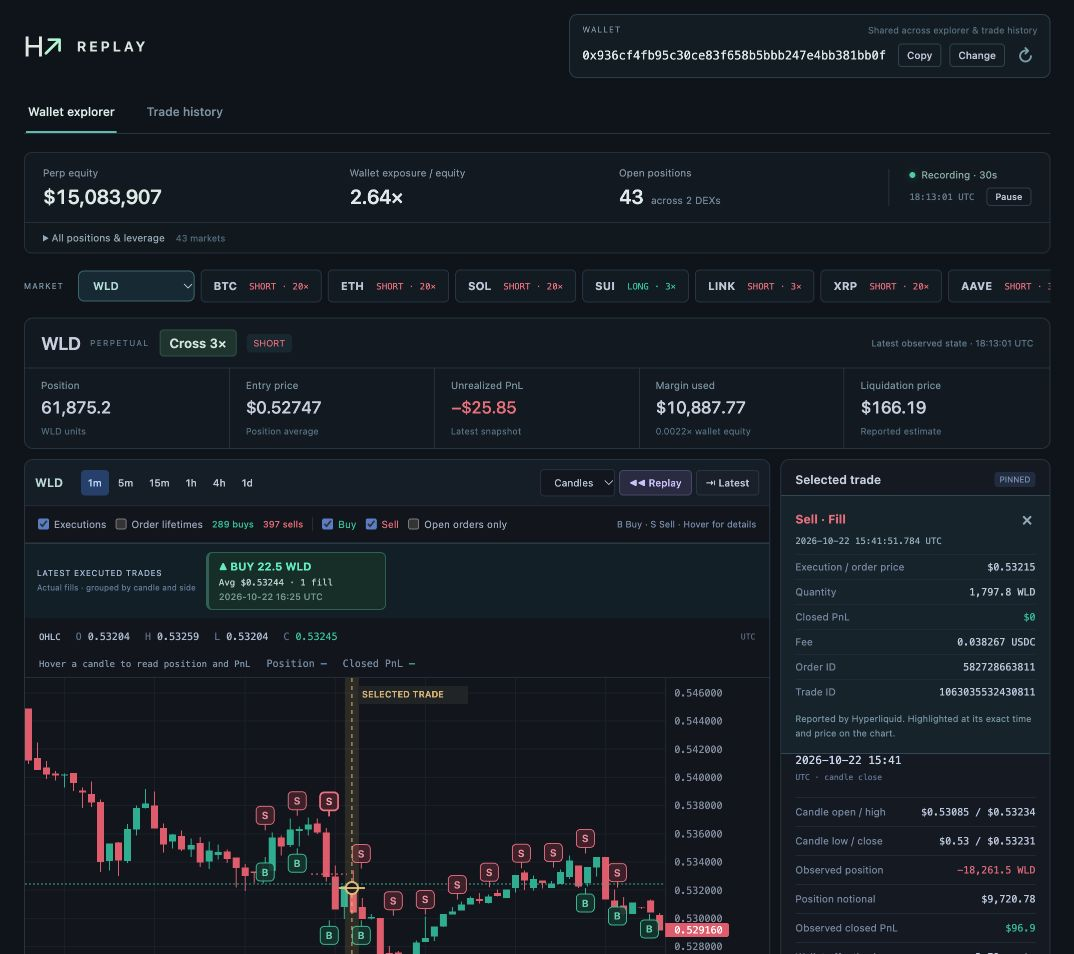
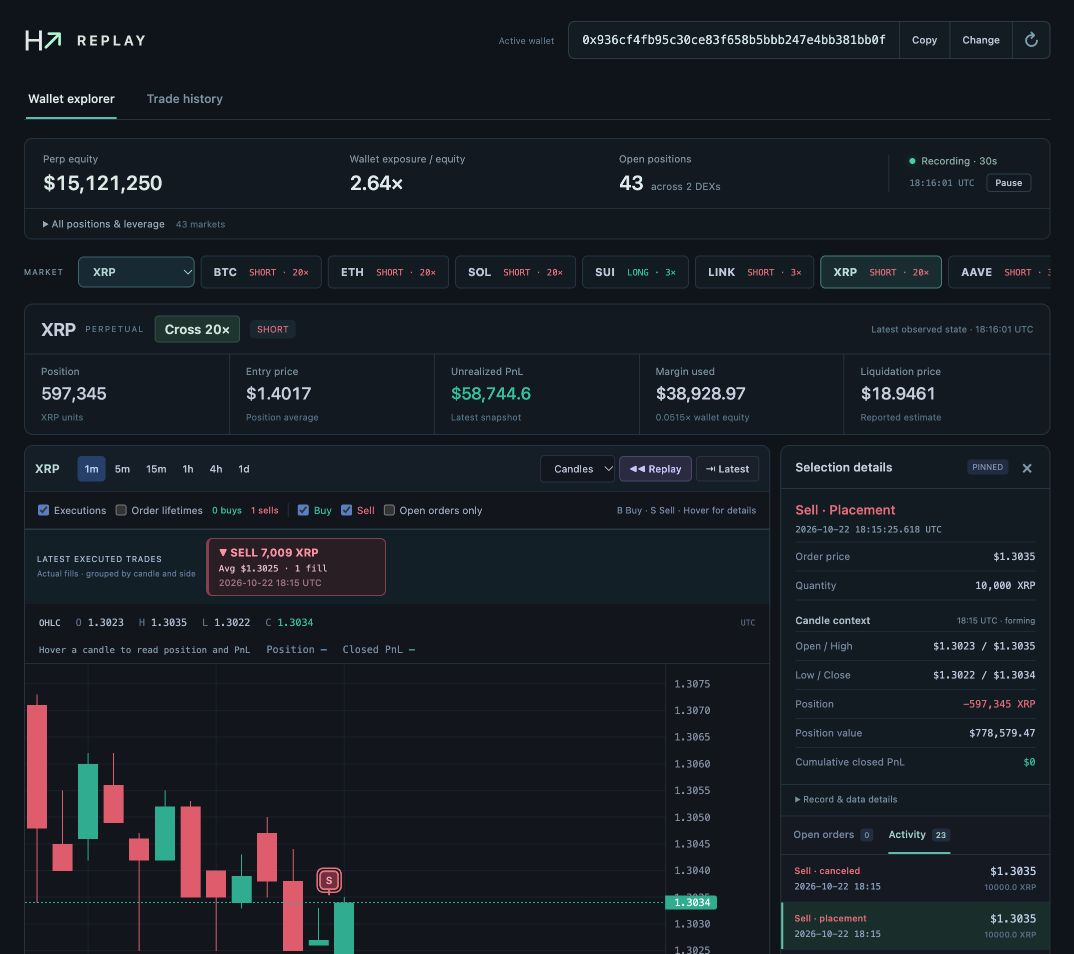
Unify selection inspector and simplify chart and wallet highlights

diff --git a/src/main.tsx b/src/main.tsx
@@ -133,7 +133,7 @@ function App(){
   function latest(){setReplay(false);setPlaying(false);setCursor(Math.max(0,candles.length-1));setSelectedEvent(undefined);setResetKey(k=>k+1);}
   function seek(event:ReplayEvent){const at=candleIndexAt(candles,event.time/1000);if(at>=0)setCursor(at);setPlaying(false);setSelectedEvent(event);setFocusKey(k=>k+1);document.getElementById('selection-heading')?.scrollIntoView({block:'nearest'});}
   return <main className="terminal">
-    <header className="topbar shared-header"><a href="/" className="brand"><span className="original-mark">H<span>↗</span></span><b className="original-wordmark">REPLAY</b></a><section className="shared-wallet" aria-label="Active wallet"><div className="shared-wallet-caption"><span>WALLET</span><span>Shared across explorer & trade history</span></div>{walletEditing?<form className="wallet-edit-form" onSubmit={e=>{e.preventDefault();void loadWallet(false);}}><input autoFocus aria-label="Wallet address" value={wallet} onChange={e=>setWallet(e.target.value)} spellCheck={false} onKeyDown={e=>{if(e.key==='Escape'){setWalletEditing(false);setWallet(snapshot?.wallet??EXAMPLE_WALLET);}}}/><button disabled={busy||!/^0x[0-9a-fA-F]{40}$/.test(wallet)}>{busy?'Loading…':'Load wallet'}</button><button type="button" onClick={()=>{setWalletEditing(false);setWallet(snapshot?.wallet??EXAMPLE_WALLET);}}>Cancel</button></form>:<div className="shared-wallet-controls"><button className="wallet-address-button" aria-label="Change wallet address" title="Change wallet" onClick={()=>{setWallet(snapshot?.wallet??wallet);setWalletEditing(true);}}>{snapshot?.wallet??(busy?'Loading wallet…':wallet)}</button><button className="copy-address" aria-label="Copy wallet address" disabled={!snapshot} onClick={()=>void copyAddress()}>{copyStatus==='Copied'?'Copied!':'Copy'}</button><button className="change-wallet" onClick={()=>{setWallet(snapshot?.wallet??wallet);setWalletEditing(true);}}>Change</button><button type="button" className="button-icon" title="Fetch latest wallet history" aria-label="Sync wallet" disabled={busy||!snapshot} onClick={()=>void loadWallet(true,snapshot!.wallet)}>{busy?'…':'↻'}</button></div>}{copyStatus&&copyStatus!=='Copied'&&<span className="copy-feedback" role="status">{copyStatus}</span>}</section></header>
+    <header className="topbar shared-header"><a href="/" className="brand"><span className="original-mark">H<span>↗</span></span><b className="original-wordmark">REPLAY</b></a><section className="shared-wallet" aria-label="Active wallet"><div className="shared-wallet-caption"><span>Active wallet</span></div>{walletEditing?<form className="wallet-edit-form" onSubmit={e=>{e.preventDefault();void loadWallet(false);}}><input autoFocus aria-label="Wallet address" value={wallet} onChange={e=>setWallet(e.target.value)} spellCheck={false} onKeyDown={e=>{if(e.key==='Escape'){setWalletEditing(false);setWallet(snapshot?.wallet??EXAMPLE_WALLET);}}}/><button disabled={busy||!/^0x[0-9a-fA-F]{40}$/.test(wallet)}>{busy?'Loading…':'Load wallet'}</button><button type="button" onClick={()=>{setWalletEditing(false);setWallet(snapshot?.wallet??EXAMPLE_WALLET);}}>Cancel</button></form>:<div className="shared-wallet-controls"><button className="wallet-address-button" aria-label="Change wallet address" title="Change wallet" onClick={()=>{setWallet(snapshot?.wallet??wallet);setWalletEditing(true);}}>{snapshot?.wallet??(busy?'Loading wallet…':wallet)}</button><button className="copy-address" aria-label="Copy wallet address" disabled={!snapshot} onClick={()=>void copyAddress()}>{copyStatus==='Copied'?'Copied!':'Copy'}</button><button className="change-wallet" onClick={()=>{setWallet(snapshot?.wallet??wallet);setWalletEditing(true);}}>Change</button><button type="button" className="button-icon" title="Fetch latest wallet history" aria-label="Sync wallet" disabled={busy||!snapshot} onClick={()=>void loadWallet(true,snapshot!.wallet)}>{busy?'…':'↻'}</button></div>}{copyStatus&&copyStatus!=='Copied'&&<span className="copy-feedback" role="status">{copyStatus}</span>}</section></header>
     <div className="top-nav" role="tablist" aria-label="Workspace views" onKeyDown={e=>{if(['ArrowLeft','ArrowRight','Home','End'].includes(e.key)){e.preventDefault();const next=e.key==='Home'?'explorer':e.key==='End'?'history':view==='explorer'?'history':'explorer';switchView(next);document.getElementById(next+'-tab')?.focus();}}}><button id="explorer-tab" role="tab" aria-selected={view==='explorer'} aria-controls="explorer-panel" tabIndex={view==='explorer'?0:-1} className={view==='explorer'?'nav-active':''} onClick={()=>switchView('explorer')}>Wallet explorer</button><button id="history-tab" role="tab" aria-selected={view==='history'} aria-controls="history-panel" tabIndex={view==='history'?0:-1} className={view==='history'?'nav-active':''} onClick={()=>switchView('history')}>Trade history</button></div>
     {error&&<div className="error-banner" role="alert">{error}</div>}
     {leverageError&&<div className="error-banner" role="alert">{leverageError}</div>}
@@ -150,7 +150,7 @@ function App(){
         <div className={`replay-strip ${replay?'is-replay':''}`}><span className="mode-pill">{replay?'REPLAY':'HISTORICAL VIEW'}</span>{replay?<><button aria-label="Previous trade or candle" onClick={()=>{setPlaying(false);setCursor(i=>replayMode==='trades'?nextTradeBar(bars,i,-1)??i:Math.max(0,i-1));}}>◁</button><button className="play-button" onClick={()=>{if(cursor===candles.length-1||replayMode==='trades'&&nextTradeBar(bars,cursor,1)===undefined)setCursor(replayStart);setPlaying(p=>!p);}}>{playing?'Ⅱ Pause':'▶ Play'}</button><button aria-label="Next trade or candle" onClick={()=>{setPlaying(false);setCursor(i=>replayMode==='trades'?nextTradeBar(bars,i,1)??i:Math.min(candles.length-1,i+1));}}>▷</button><select aria-label="Replay mode" value={replayMode} onChange={e=>{setPlaying(false);setReplayMode(e.target.value as 'trades'|'candles');}}><option value="trades">Trade replay</option><option value="candles">Candle replay</option></select><select aria-label="Playback speed" value={speed} onChange={e=>setSpeed(Number(e.target.value))}>{[1,4,12,30].map(s=><option key={s} value={s}>{s} steps/s</option>)}</select><input aria-label="Replay timeline" type="range" min={0} max={Math.max(0,candles.length-1)} value={Math.min(cursor,Math.max(0,candles.length-1))} onChange={e=>{setPlaying(false);setCursor(Number(e.target.value));}}/><button onClick={latest}>Exit replay</button></>:<span className="replay-hint">Scroll to zoom · drag to pan · click a candle to inspect · Replay to follow executed trades</span>}<time>{candles[cursor]?`${date(candles[cursor].time)} UTC`:'—'}</time></div>
         <div className="coverage-strip"><span className="status-dot"/><span>{candles.length?`${candles.length.toLocaleString()} candles · ${date(candles[0].time).slice(0,10)} — ${date(candles.at(-1)!.time).slice(0,10)}`:'Waiting for market data'}</span><span>{marketEvents.filter(e=>e.kind==='fill').length} fills in chart window</span>{events.length>marketEvents.length&&<span className="amber">{events.length-marketEvents.length} operations outside candle coverage</span>}<a href="https://www.tradingview.com/" target="_blank" rel="noreferrer">Charts by TradingView</a></div>
       </div>
-      <aside className="inspector"><div className="inspector-heading" id="selection-heading"><h2>{selectedEvent?(selectedEvent.kind==='fill'?'Selected trade':'Selected order'):'Selected candle'}</h2><span className={replay?'replay-dot':'pinned-dot'}>{replay?'REPLAY':'PINNED'}</span></div>{selectedEvent&&<div className="pinned-event" aria-label="Selected activity details"><div><strong className={selectedEvent.side==='B'?'positive':'negative'}>{selectedEvent.side==='B'?'Buy':'Sell'} · {selectedEvent.status??selectedEvent.kind}</strong><button aria-label="Clear selected activity" onClick={()=>setSelectedEvent(undefined)}>×</button></div><time>{new Date(selectedEvent.time).toISOString().replace('T',' ').slice(0,23)} UTC</time><dl><dt>Execution / order price</dt><dd>{price(Number(selectedEvent.price))}</dd><dt>Quantity</dt><dd>{fmt(Number(selectedEvent.size),8)} {coin}</dd>{selectedEvent.fill&&<><dt>Closed PnL</dt><dd className={Number(selectedEvent.fill.closedPnl)>=0?'positive':'negative'}>{Number(selectedEvent.fill.closedPnl)<0?'−$':'$'}{fmt(Math.abs(Number(selectedEvent.fill.closedPnl)),8)}</dd><dt>Fee</dt><dd>{fmt(Number(selectedEvent.fill.fee),8)} {selectedEvent.fill.feeToken??''}</dd></>}<dt>Order ID</dt><dd>{selectedEvent.oid}</dd>{selectedEvent.fill&&<><dt>Trade ID</dt><dd>{selectedEvent.fill.tid}</dd></>}</dl><p>{selectedEvent.evidence==='reported'?'Reported by Hyperliquid. Highlighted at its exact time and price on the chart.':'Estimated placement from the order timestamp and latest fields.'}</p></div>}<div className="selected-date">{candles[cursor]?date(candles[cursor].time):'—'} <small>UTC · {candles[cursor]&&snapshot&&(candles[cursor].time+step)*1000>snapshot.fetchedAt?'forming candle':'candle close'}</small></div><dl><dt>Candle open / high</dt><dd>{candles[cursor]?`${price(candles[cursor].open)} / ${price(candles[cursor].high)}`:'—'}</dd><dt>Candle low / close</dt><dd>{candles[cursor]?`${price(candles[cursor].low)} / ${price(candles[cursor].close)}`:'—'}</dd><dt>Observed position</dt><dd className={state.position!==null&&state.position<0?'negative':'positive'}>{state.position===null||isSpot?'Unknown':`${fmt(state.position,5)} ${coin}`}</dd><dt>Position notional</dt><dd>{state.position!==null&&!isSpot&&candles[cursor]?usd(Math.abs(state.position*candles[cursor].close)):'—'}</dd><dt>Observed closed PnL</dt><dd className={pnl>=0?'positive':'negative'}>{fills.length?usd(pnl):'—'}</dd><dt title="Wallet-wide effective leverage at or before this cursor; recorded samples take priority over estimates.">Wallet effective leverage</dt><dd>{(()=>{const recorded=leverageData?.recorded.findLast(p=>p.time<=cutoff);const estimated=leverageData?.estimated.findLast(p=>p.time<=cutoff);const p=recorded&&cutoff-recorded.time<=90000?recorded:estimated&&cutoff-estimated.time<=300000?estimated:null;return p?.value!==null&&p?.value!==undefined?`${fmt(p.value)}× ${p===recorded?'recorded':'est.'}`:'—';})()}</dd><dt>Observed executions</dt><dd>{fills.length}</dd><dt>Open orders at cursor</dt><dd>{state.orders.length}</dd></dl><p className="inspector-note">{events.some(e=>e.kind==='fill')?'':`No ${coin} fills were returned in the bounded wallet history. `}Historical position is reconstructed from fills. The token’s reported leverage above is the latest recorded setting, not a historical value at this cursor.</p>{!isSpot&&state.discontinuities>0&&<p className="gap-warning">{state.discontinuities} position gaps detected in the available fills.</p>}
+      <aside className="inspector"><section className="selection-summary" aria-label="Selected activity and candle state"><div className="inspector-heading" id="selection-heading"><h2>Selection details</h2><div><span className={replay?'replay-dot':'pinned-dot'}>{replay?'REPLAY':'PINNED'}</span>{selectedEvent&&<button className="clear-selection" aria-label="Clear selected activity" onClick={()=>setSelectedEvent(undefined)}>×</button>}</div></div><div className="selection-context"><strong className={selectedEvent?(selectedEvent.side==='B'?'positive':'negative'):''}>{selectedEvent?`${selectedEvent.side==='B'?'Buy':'Sell'} · ${selectedEvent.status??selectedEvent.kind}`:`${coin} candle`}</strong><time>{selectedEvent?new Date(selectedEvent.time).toISOString().replace('T',' ').slice(0,23):candles[cursor]?date(candles[cursor].time):'—'} UTC</time></div><dl className="unified-selection">{selectedEvent&&<><dt>{selectedEvent.kind==='fill'?'Trade price':'Order price'}</dt><dd>{price(Number(selectedEvent.price))}</dd><dt>Quantity</dt><dd>{fmt(Number(selectedEvent.size),8)} {coin}</dd>{selectedEvent.fill&&<><dt>Trade closed PnL</dt><dd className={Number(selectedEvent.fill.closedPnl)>=0?'positive':'negative'}>{Number(selectedEvent.fill.closedPnl)<0?'−$':'$'}{fmt(Math.abs(Number(selectedEvent.fill.closedPnl)),8)}</dd><dt>Fee</dt><dd>{fmt(Number(selectedEvent.fill.fee),8)} {selectedEvent.fill.feeToken??''}</dd></>}</>}<dt className="selection-subheading">Candle context <small>{candles[cursor]?date(candles[cursor].time).slice(11):'—'} UTC · {candles[cursor]&&snapshot&&(candles[cursor].time+step)*1000>snapshot.fetchedAt?'forming':'close'}</small></dt><dt>Open / High</dt><dd>{candles[cursor]?`${price(candles[cursor].open)} / ${price(candles[cursor].high)}`:'—'}</dd><dt>Low / Close</dt><dd>{candles[cursor]?`${price(candles[cursor].low)} / ${price(candles[cursor].close)}`:'—'}</dd><dt>Position</dt><dd className={state.position!==null&&state.position<0?'negative':'positive'}>{state.position===null||isSpot?'Unknown':`${fmt(state.position,5)} ${coin}`}</dd><dt>Position value</dt><dd>{state.position!==null&&!isSpot&&candles[cursor]?usd(Math.abs(state.position*candles[cursor].close)):'—'}</dd><dt>Cumulative closed PnL</dt><dd className={pnl>=0?'positive':'negative'}>{fills.length?usd(pnl):'—'}</dd></dl><details className="selection-more"><summary>Record & data details</summary><dl>{selectedEvent&&<><dt>Order ID</dt><dd>{selectedEvent.oid}</dd>{selectedEvent.fill&&<><dt>Trade ID</dt><dd>{selectedEvent.fill.tid}</dd></>}</>}<dt>Executions to cursor</dt><dd>{fills.length}</dd><dt>Open orders at cursor</dt><dd>{state.orders.length}</dd></dl><p>{selectedEvent?.evidence==='inferred'?'Placement is estimated from the order timestamp and latest fields. ':''}Position and cumulative PnL are reconstructed at candle close from available fills. PnL excludes fees and funding. Token leverage above is the latest recorded setting.</p></details>{!isSpot&&state.discontinuities>0&&<p className="gap-warning">{state.discontinuities} position gaps detected.</p>}</section>
         <div className="side-tabs"><button className={tab==='orders'?'active':''} onClick={()=>setTab('orders')}>Open orders <small>{state.orders.length}</small></button><button className={tab==='events'?'active':''} onClick={()=>setTab('events')}>Activity <small>{renderedEvents.length}</small></button></div>
         <div className="side-list">{tab==='orders'?<><div className="list-head"><span>Side / size</span><span>Limit price</span></div>{state.orders.length?state.orders.sort((a,b)=>Number(b.event.price)-Number(a.event.price)).map(({event,remaining})=><button className="order-item" key={event.id} onClick={()=>seek(event)}><div><b className={event.side==='B'?'positive':'negative'}>{event.side==='B'?'Buy':'Sell'}</b><span>{fmt(remaining,5)} {coin}</span></div><div><strong>{price(Number(event.price))}</strong><small>Estimated lifetime</small></div></button>):<p className="empty-note">No open orders reconstructed at this time.</p>}</>:<>{renderedEvents.length?renderedEvents.slice().reverse().slice(0,100).map(event=><button className={`order-item event-item ${selectedEvent?.id===event.id?'selected-activity':''}`} key={event.id} aria-pressed={selectedEvent?.id===event.id} onClick={()=>seek(event)}><div><b className={event.side==='B'?'positive':'negative'}>{event.side==='B'?'Buy':'Sell'} · {event.status??event.kind}</b><span>{date(event.time/1000)}</span></div><div><strong>{price(Number(event.price))}</strong><small>{event.size} {coin}</small></div></button>):<p className="empty-note">No activity within the current candle window.</p>}<p className="empty-note">Latest 100 activity records in this window.</p></>}</div>
 

diff --git a/src/style.css b/src/style.css
@@ -18,3 +18,7 @@
 [hidden]{display:none!important}.top-nav>button{height:100%;display:flex;align-items:center;padding:0 2px;border:0;border-radius:0;border-bottom:2px solid transparent;background:none;font-size:11px;color:#879eae}.top-nav>button.nav-active{border-bottom-color:#65c4b6;color:#e2efed}.top-nav>button:hover{background:none;color:#e2efed}.trade-history-panel{background:#111b24;border:1px solid #2b3e4c;border-radius:8px;overflow:hidden}.history-heading{display:flex;justify-content:space-between;align-items:center;gap:20px;padding:22px 24px}.history-heading h2{font-size:20px;font-weight:550;margin:0 0 8px;color:#e0eaf0;letter-spacing:-.4px}.history-heading p{margin:0;color:#8ca3b3;font-size:11px}.history-heading label{display:flex;align-items:center;gap:10px;font-size:11px;color:#9db3c1}.history-heading select{min-width:170px;background:#172a35;border-color:#395564;color:#d7e7e6}.history-coverage{display:flex;align-items:center;gap:12px 20px;flex-wrap:wrap;padding:12px 24px;border-block:1px solid #293c49;background:#101d27;font-size:10px;color:#809aab}.history-coverage strong{font-weight:550;color:#c4dadb}.history-coverage>span:last-child{margin-left:auto;color:#b5a68b}.history-table-scroll{max-height:calc(100dvh - 340px);min-height:200px;overflow:auto;scrollbar-width:thin}.history-table-scroll table{width:100%;border-collapse:collapse;text-align:right;white-space:nowrap;font-size:11px;font-variant-numeric:tabular-nums}.history-table-scroll thead th{position:sticky;top:0;background:#192833;color:#9bb0bd;font-size:10px;font-weight:500;z-index:1}.history-table-scroll th,.history-table-scroll td{padding:12px 22px;border-bottom:1px solid #233542}.history-table-scroll th:first-child,.history-table-scroll td:first-child{text-align:left}.history-table-scroll th:nth-child(2),.history-table-scroll td:nth-child(3){text-align:left}.history-table-scroll tbody th{font-weight:550;color:#d4e2e9}.history-table-scroll time{font:10px ui-monospace,monospace;color:#9db0bf}.history-table-scroll tbody tr:hover{background:#192d37}.history-side{font-size:10px;font-weight:600}.history-table-scroll td small{color:#8ca3b3;font-size:9px}.history-pagination{display:flex;justify-content:space-between;align-items:center;gap:12px;padding:14px 24px;border-top:1px solid #293c49;font-size:10px;color:#89a2b3}.history-pagination>div{display:flex;align-items:center;gap:15px}.history-pagination button{padding:6px 12px;font-size:10px;background:#1a2b37;border-color:#344a59}.history-note{padding:0 24px 14px;color:#7993a5;font-size:10px;line-height:1.7;margin:0;max-width:1150px}.history-empty{padding:50px 24px;text-align:center;color:#8ba3b4;font-size:12px}@media(max-width:650px){.history-heading{padding:18px 14px;align-items:flex-start;flex-wrap:wrap}.history-heading h2{font-size:18px}.history-heading select{min-width:150px}.history-coverage,.history-pagination{padding:12px 14px}.history-coverage>span:last-child{margin-left:0}.history-table-scroll th,.history-table-scroll td{padding:12px 14px}.history-table-scroll{max-height:60dvh}.history-note{padding:0 14px 14px}.history-pagination>div{gap:8px}}
 .chart-hover-values{display:flex;align-items:center;flex-wrap:wrap;gap:8px 16px;min-height:28px;padding:5px 14px;border-bottom:1px solid #253443;font:10px ui-monospace,monospace;color:#8197ae}.chart-hover-values>span:first-child{font-size:9px;color:#8ca3b7}.chart-hover-values b{font-weight:500;color:#d3dfed}.chart-hover-values>span:nth-child(2) b{color:#8bb5ff}.chart-hover-values>span:nth-child(3) b{color:#58d5b6}.pinned-event{background:#172731;border-block:1px solid #355260;padding:12px 14px}.pinned-event>div{display:flex;align-items:center;justify-content:space-between;gap:8px}.pinned-event strong{font-size:12px;text-transform:capitalize}.pinned-event button{padding:0 3px;border:0;background:none;color:#9db1bf;font-size:18px}.pinned-event time{display:block;font:9px ui-monospace,monospace;color:#a0b5c3;margin-top:6px}.inspector .pinned-event dl{padding:0;margin:8px 0}.inspector .pinned-event dt,.inspector .pinned-event dd{font-size:10px;padding:6px 0}.pinned-event p{font-size:9px;line-height:1.6;margin:4px 0 0;color:#819eae}.order-item.selected-activity{background:#233634;box-shadow:inset 3px 0 #e6c37a}.inspector-heading{scroll-margin-top:12px}.pane-label{max-width:80%;font-size:8px}.chart-hover-values+ .chart-host{position:relative}
 .shared-header{height:auto;min-height:90px;justify-content:space-between;gap:24px;padding:14px 0;border-bottom:0}.shared-wallet{max-width:100%;min-width:0;background:#111e28;border:1px solid #304755;border-radius:8px;padding:10px 12px}.shared-wallet-caption{display:flex;justify-content:space-between;gap:30px;margin-bottom:8px;color:#829dac;font-size:8px;letter-spacing:1px}.shared-wallet-caption>span:last-child{letter-spacing:0;color:#647f91;font-size:9px}.shared-wallet-controls,.wallet-edit-form{display:flex;align-items:center;gap:8px}.wallet-address-button{border:0;background:transparent!important;padding:3px 4px 3px 0;color:#e1eeef;font:12px ui-monospace,SFMono-Regular,Consolas,monospace;overflow-wrap:anywhere;white-space:normal;text-align:left;user-select:all}.shared-wallet-controls .copy-address,.shared-wallet-controls .change-wallet{font-size:10px;padding:5px 8px;background:transparent;border-color:#304c59}.shared-wallet-controls .button-icon{font-size:18px;padding:0 5px;border:0;background:transparent;color:#87a8b7}.wallet-edit-form input{width:350px;max-width:100%;min-width:0;font:11px ui-monospace,monospace;border-color:#508078;padding:9px}.wallet-edit-form button{font-size:10px}.wallet-edit-form>button:first-of-type{background:#244b45;border-color:#41766a;color:#d6eee5}.shared-header+.top-nav{height:42px;display:flex;gap:28px;margin-bottom:18px;border-bottom:1px solid #293b48;padding-left:2px}.shared-header+.top-nav>button{font-size:12px;padding:0 2px}#wallet-overview{scroll-margin:0}@media(max-width:850px){.shared-header{gap:15px;flex-wrap:wrap;padding:14px 0}.shared-wallet{width:100%;padding:10px}.shared-header+.top-nav{margin-bottom:14px}.wallet-address-button{font-size:11px}.shared-wallet-controls .copy-address,.shared-wallet-controls .change-wallet{font-size:9px}.wallet-edit-form input{flex:1}}@media(max-width:480px){.shared-wallet-controls{flex-wrap:wrap;gap:7px}.wallet-address-button{flex-basis:100%;font-size:10px;line-height:1.7}.shared-wallet-caption{gap:12px}.shared-wallet-caption>span:last-child{font-size:8px}.wallet-edit-form{flex-wrap:wrap}.wallet-edit-form input{flex-basis:100%}}
+/* One inspector surface, with compact event and candle context. */
+.selection-summary{background:#121d27}.selection-summary .inspector-heading{padding:12px 14px;border-bottom:1px solid #293b49}.inspector-heading>div{display:flex;align-items:center;gap:10px}.clear-selection{font-size:18px;padding:0 3px;line-height:18px;background:none;border:0;color:#8ca4b4}.selection-context{padding:13px 14px 5px}.selection-context strong{display:block;text-transform:capitalize;font-size:13px;font-weight:550}.selection-context time{display:block;font:9px ui-monospace,monospace;color:#8ba4b5;margin-top:7px}.inspector .unified-selection{margin:0;padding:2px 14px 8px}.inspector .unified-selection dt,.inspector .unified-selection dd{font-size:10px;padding:8px 0}.inspector .unified-selection .selection-subheading{grid-column:1 / -1;display:flex;align-items:center;justify-content:space-between;color:#b4c6d1;font-size:10px;font-weight:550;padding:14px 0 5px;border-bottom:0}.selection-subheading small{font-size:8px;color:#7d96a9;font-weight:400}.selection-more{border-top:1px solid #263846;padding:9px 14px 11px}.selection-more summary{color:#829dad;font-size:9px;cursor:pointer}.inspector .selection-more dl{padding:6px 0 0;margin:0}.selection-more p{font-size:9px;color:#7b95a8;line-height:1.7;margin:10px 0 0}.order-item.selected-activity{background:#19332f;box-shadow:inset 2px 0 #68cbb5}
+/* Aligned shared wallet toolbar, rather than a second header card. */
+.shared-header{min-height:80px;padding:17px 0;align-items:center}.shared-wallet{display:flex;align-items:center;gap:14px;border:0;border-radius:0;padding:0;background:transparent}.shared-wallet-caption{margin:0;display:block;font-size:10px;letter-spacing:0;color:#8ba2b2;white-space:nowrap}.shared-wallet-controls{height:38px;gap:0;border:1px solid #314551;border-radius:6px;background:#111e28;overflow:hidden}.wallet-address-button{font-size:12px;padding:10px 13px;line-height:16px;color:#d7e6ec}.shared-wallet-controls .copy-address,.shared-wallet-controls .change-wallet,.shared-wallet-controls .button-icon{height:100%;margin:0;border:0;border-left:1px solid #293f4d;border-radius:0;padding:0 12px;font-size:10px;background:transparent;line-height:36px}.shared-wallet-controls .button-icon{font-size:18px;padding:0 11px}.shared-wallet-controls button:hover{background:#1c333d!important}.wallet-edit-form{height:38px;gap:6px}.wallet-edit-form input{height:38px;padding:8px 12px}.wallet-edit-form button{height:34px}.shared-header+.top-nav{margin-bottom:18px;height:40px}@media(max-width:1000px){.shared-wallet{gap:10px}.wallet-address-button{font-size:10px;padding:10px}.shared-wallet-controls .copy-address,.shared-wallet-controls .change-wallet{padding:0 9px}}@media(max-width:850px){.shared-header{flex-wrap:wrap;gap:16px}.shared-wallet{width:100%;justify-content:space-between}.shared-wallet-controls{height:38px}.shared-wallet-caption{font-size:10px}.shared-wallet-controls .wallet-address-button{flex-basis:auto}}@media(max-width:600px){.shared-wallet{display:block}.shared-wallet-caption{margin-bottom:7px}.shared-wallet-controls{height:auto;min-height:38px;flex-wrap:nowrap}.shared-wallet-controls .wallet-address-button{font-size:9px;flex:1;line-height:1.5;padding:8px}.shared-wallet-controls .copy-address,.shared-wallet-controls .change-wallet{padding:0 8px;flex-shrink:0}.wallet-edit-form{height:auto;flex-wrap:wrap}.wallet-edit-form input{width:100%;flex-basis:100%}}

diff --git a/src/OperationOverlay.ts b/src/OperationOverlay.ts
@@ -51,6 +51,8 @@ export class OperationOverlay implements ISeriesPrimitive {
         if(terminal && b>=0 && b<=mediaSize.width) {ctx.beginPath();ctx.moveTo(b-2,py-2);ctx.lineTo(b+2,py+2);ctx.moveTo(b-2,py+2);ctx.lineTo(b+2,py-2);ctx.stroke();}
       }
       this.markers=[];
+      let selectionShown=false;
+      const selectedIndex=this.selectedEvent?candleIndexAt(this.candles,this.selectedEvent.time/1000):-1;
       if(this.options.fills){
         const groups=executionGroups(this.candles,visible.filter(permitted),this.barSeconds);
         const clusters=clusterExecutions(groups,index=>scale.logicalToCoordinate(index as Logical),mediaSize.width);
@@ -61,27 +63,29 @@ export class OperationOverlay implements ISeriesPrimitive {
           const anchor=series.priceToCoordinate(anchorPrice);
           if(anchor===null||anchor<0||anchor>mediaSize.height)continue;
           const py=Math.max(12,Math.min(mediaSize.height-12,anchor+(buy?17:-17)));
-          const highlighted=this.highlightedId===cluster.id||cluster.events.some(e=>e.id===this.selectedEvent?.id);
+          const selected=!!this.selectedEvent&&cluster.side===this.selectedEvent.side&&(cluster.events.some(e=>e.id===this.selectedEvent?.id)||(this.selectedEvent.kind!=='fill'&&selectedIndex>=cluster.firstIndex&&selectedIndex<=cluster.lastIndex));
+          if(selected)selectionShown=true;
+          const highlighted=this.highlightedId===cluster.id||selected;
           ctx.globalAlpha=highlighted?1:.9;
           ctx.strokeStyle=buy?'#39cea4':'#f2798c';ctx.lineWidth=highlighted?1.8:1;
           ctx.beginPath();ctx.moveTo(cluster.x,anchor+(buy?2:-2));ctx.lineTo(cluster.x,py+(buy?-9:9));ctx.stroke();
-          ctx.fillStyle=buy?'#123c33':'#4b2530';ctx.beginPath();ctx.roundRect(cluster.x-9,py-9,18,18,4);ctx.fill();ctx.stroke();
+          ctx.fillStyle=buy?(selected?'#226a54':'#123c33'):(selected?'#7d3549':'#4b2530');ctx.beginPath();ctx.roundRect(cluster.x-9,py-9,18,18,4);ctx.fill();ctx.stroke();
+          if(selected){ctx.globalAlpha=1;ctx.lineWidth=1.5;ctx.beginPath();ctx.roundRect(cluster.x-12,py-12,24,24,6);ctx.stroke();}
           ctx.font='600 10px -apple-system,BlinkMacSystemFont,sans-serif';ctx.textAlign='center';ctx.textBaseline='middle';
           ctx.fillStyle=buy?'#74e8c5':'#ffa8b6';ctx.fillText(buy?'B':'S',cluster.x,py+.5);
-          if(highlighted){const avg=series.priceToCoordinate(cluster.price);if(avg!==null){ctx.setLineDash([2,3]);ctx.globalAlpha=.6;ctx.beginPath();ctx.moveTo(cluster.x-18,avg);ctx.lineTo(cluster.x+18,avg);ctx.stroke();ctx.setLineDash([]);}}
+
           this.markers.push({id:cluster.id,x:cluster.x,y:py,cluster});
         }
       }
       const selected=this.selectedEvent;
-      if(selected&&selected.time/1000<=this.cutoff){
-        const px=x(selected.time/1000),py=series.priceToCoordinate(Number(selected.price));
-        if(px!==null&&px>=0&&px<=mediaSize.width){
-          ctx.globalAlpha=.12;ctx.fillStyle='#f2cd80';ctx.fillRect(px-7,0,14,mediaSize.height);
-          ctx.globalAlpha=.9;ctx.strokeStyle='#f2cd80';ctx.lineWidth=1;ctx.setLineDash([4,4]);ctx.beginPath();ctx.moveTo(px,0);ctx.lineTo(px,mediaSize.height);ctx.stroke();ctx.setLineDash([]);
-          if(py!==null&&py>=0&&py<=mediaSize.height){ctx.fillStyle='#11151e';ctx.beginPath();ctx.arc(px,py,6,0,Math.PI*2);ctx.fill();ctx.lineWidth=2;ctx.stroke();ctx.beginPath();ctx.moveTo(px-13,py);ctx.lineTo(px+13,py);ctx.stroke();}
-          const label=selected.kind==='fill'?'SELECTED TRADE':'SELECTED ORDER';
-          ctx.font='600 9px -apple-system,BlinkMacSystemFont,sans-serif';ctx.textAlign='left';ctx.textBaseline='top';
-          const labelX=Math.max(6,Math.min(mediaSize.width-115,px+10));ctx.fillStyle='#252a2c';ctx.fillRect(labelX-4,8,110,18);ctx.fillStyle='#f2cd80';ctx.fillText(label,labelX,12);
+      if(selected&&!selectionShown&&selectedIndex>=0&&selected.time/1000<=this.cutoff){
+        const bar=this.candles[selectedIndex],px=scale.logicalToCoordinate(selectedIndex as Logical),buy=selected.side==='B';
+        const anchor=series.priceToCoordinate(buy?bar.low:bar.high);
+        if(px!==null&&anchor!==null&&px>=0&&px<=mediaSize.width){
+          const py=Math.max(14,Math.min(mediaSize.height-14,anchor+(buy?17:-17)));
+          ctx.globalAlpha=1;ctx.strokeStyle=buy?'#62e8bf':'#ffa4b6';ctx.fillStyle=buy?'#226a54':'#7d3549';ctx.lineWidth=2;
+          ctx.beginPath();ctx.roundRect(px-10,py-10,20,20,4);ctx.fill();ctx.stroke();ctx.lineWidth=1;ctx.beginPath();ctx.roundRect(px-13,py-13,26,26,6);ctx.stroke();
+          ctx.font='600 10px -apple-system,BlinkMacSystemFont,sans-serif';ctx.textAlign='center';ctx.textBaseline='middle';ctx.fillStyle=buy?'#b8ffe5':'#ffd4dd';ctx.fillText(buy?'B':'S',px,py+.5);
         }
       }
       ctx.restore();

diff --git a/src/MarketChart.tsx b/src/MarketChart.tsx
@@ -90,7 +90,6 @@ export function MarketChart({coin,barSeconds,candles,events,cursor,replay,option
     const range=a.chart.timeScale().getVisibleLogicalRange();
     const span=Math.min(100,Math.max(24,range?range.to-range.from:70));
     a.chart.timeScale().setVisibleLogicalRange({from:index-span/2,to:index+span/2});
-    a.chart.setCrosshairPosition(Number(selectedEvent.price),candles[index].time as UTCTimestamp,chartType==='candles'?a.price:a.line);
   },[selectedEvent,focusKey,candles,chartType]);
   const formatPrice=(value:number)=>value.toLocaleString('en-US',{maximumFractionDigits:value>=100?2:value>=1?4:value>=.01?6:8});
   const candle=(hover && (!replay || hover.time <= (candles[cursor]?.time ?? 0)) ? hover : undefined)??candles[replay?cursor:candles.length-1];

diff --git a/README.md b/README.md
@@ -67,9 +67,9 @@ The execution marker interaction follows [Binance’s B/S history icons](https:/
 
 ## Shared wallet and chart selection
 
-A single wallet control lives in the application header above both tabs. It shows the active address with Copy, Change and Refresh actions; Change edits the address in place with Load/Cancel. Both views use the same loaded snapshot.
+A single wallet control lives in the application header above both tabs. It shows the active address in an aligned toolbar with Copy, Change and Refresh actions; Change edits the address in place with Load/Cancel. Both views use the same loaded snapshot.
 
-Clicking an activity or execution marker selects its event directly, centers the chart around it, marks its precise time and price, and shows its details above the activity list. There is no extra Inspect candle step or bottom detail card. Clicking a candle pins its OHLC and reconstructed state. Hover readouts show position and closed PnL at that candle with decimal precision; these are candle-close observations, not intrabar position samples.
+Clicking an activity or execution marker selects its event directly, centers the chart around it, emphasizes its Buy/Sell badge, and shows the selected event and candle context in one unified inspector above the activity list. There is no extra Inspect candle step or bottom detail card. Clicking a candle pins its OHLC and reconstructed state. Hover readouts show position and closed PnL at that candle with decimal precision; these are candle-close observations, not intrabar position samples.
 
 ## Trade history tab
 
